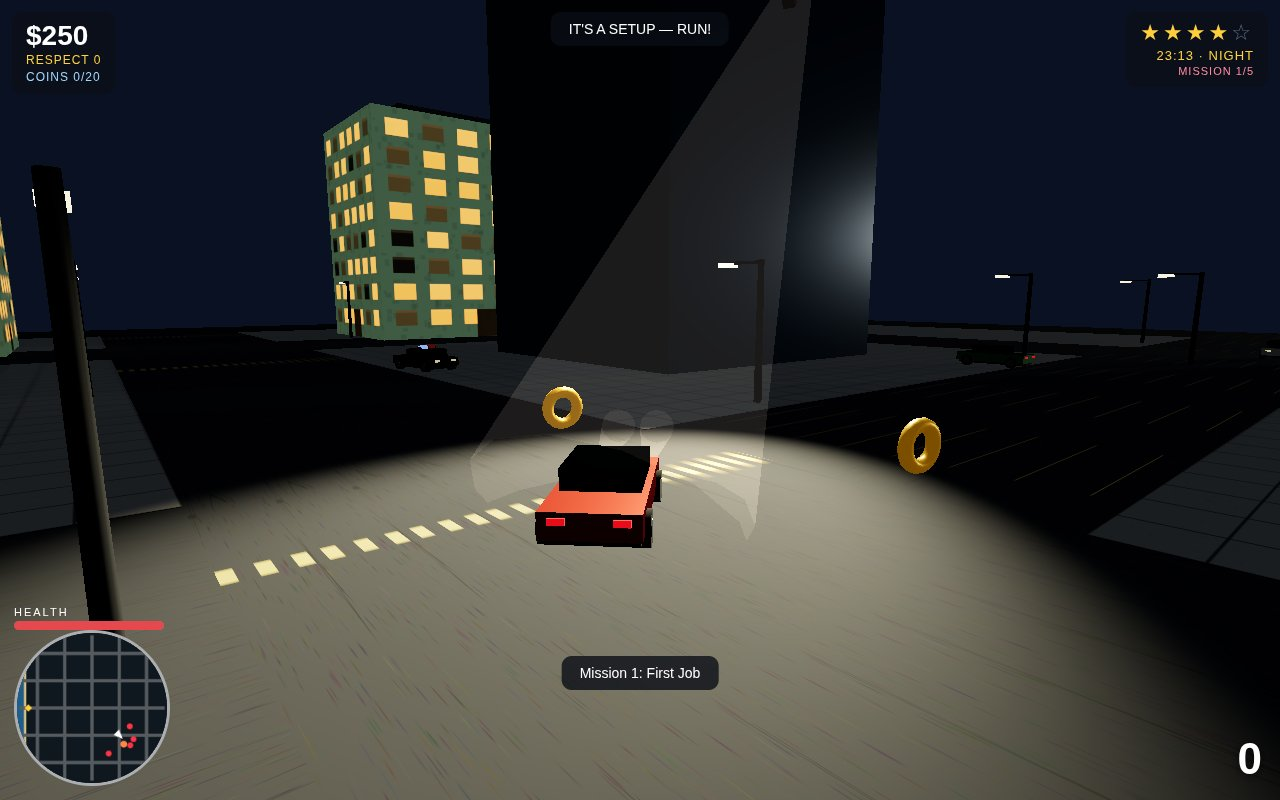
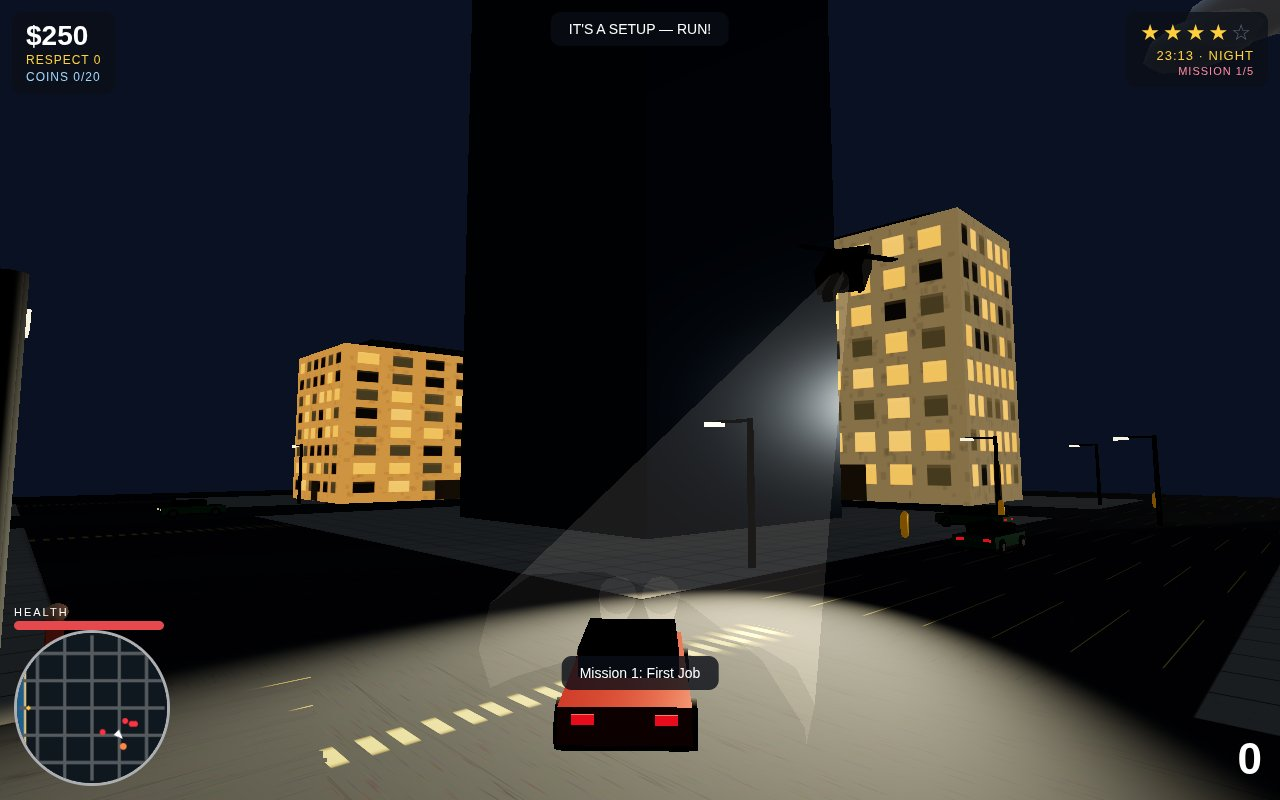
Solmar City v4: heli visible in mission shot (lower orbit, lifted camera), chase stars verified at 3

diff --git a/game/src/police.js b/game/src/police.js
@@ -96,9 +96,9 @@ export function createPolice(scene, hooks) {
       if (P.bust > 3) { P.bust = 0; hooks.onBusted(); }
       if (P.heli) {
         P.orbit += dt * 0.45;
-        const hx = pp.x + Math.cos(P.orbit) * 22;
-        const hz = pp.z + Math.sin(P.orbit) * 22;
-        const hy = 20 + Math.sin(elapsed * 0.8) * 1.5;
+        const hx = pp.x + Math.cos(P.orbit) * 26;
+        const hz = pp.z + Math.sin(P.orbit) * 26;
+        const hy = 14 + Math.sin(elapsed * 0.8) * 1.5;
         P.heli.position.set(hx, hy, hz);
         P.heli.lookAt(pp.x, 0, pp.z);
         P.heli.userData.rotor.rotation.y += dt * 22;

diff --git a/game/src/main.js b/game/src/main.js
@@ -216,7 +216,7 @@ function updateCamera(dt) {
     camPos.y += rand(-1, 1) * G.shake * 0.3;
   }
   camera.position.copy(camPos);
-  camTarget.set(p.x + fx * 8, 1.4, p.z + fz * 8);
+  camTarget.set(p.x + fx * 8, 1.4 + (G.camLift || 0), p.z + fz * 8);
   camera.lookAt(camTarget);
 }
 

diff --git a/game/src/shots.js b/game/src/shots.js
@@ -30,6 +30,7 @@ export function stageShot(G, name) {
     G.teleportCar(60, 60, -Math.PI * 0.75);
     G.setWanted(4);
     G.police.orbit = Math.PI * 0.25;
+    G.camLift = 5;
     G.missions.override = "IT'S A SETUP — RUN!";
   }
   G.state = 'playing';
